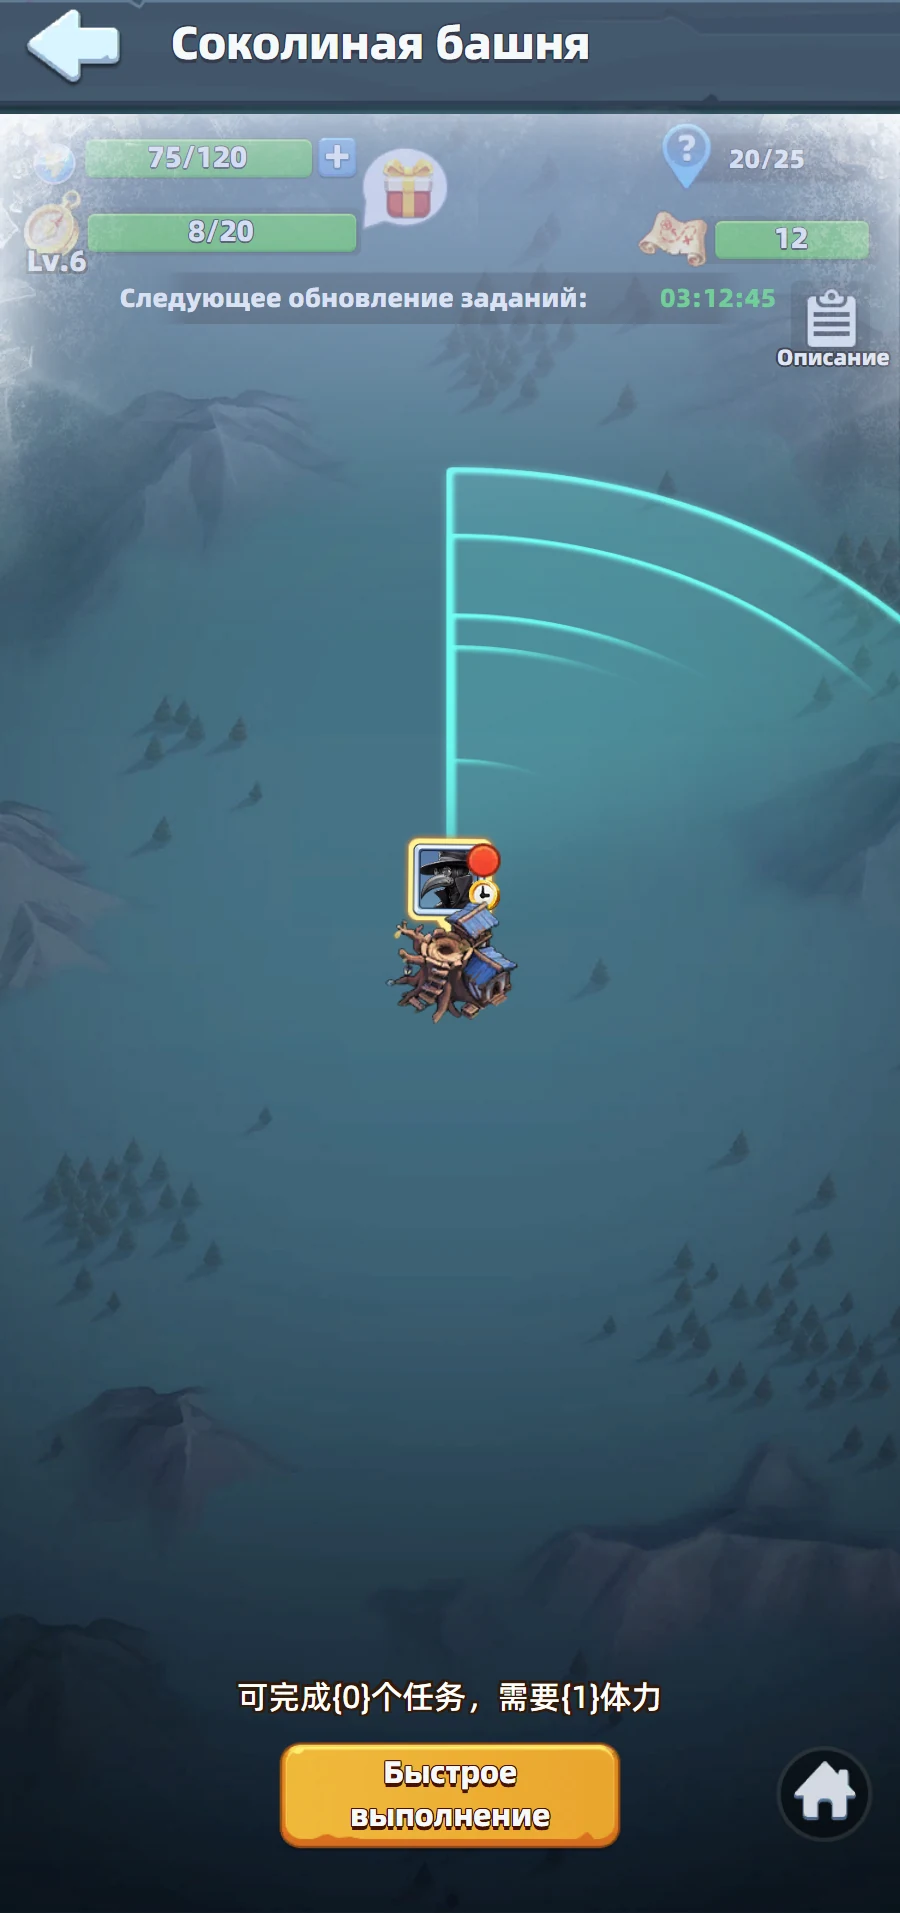
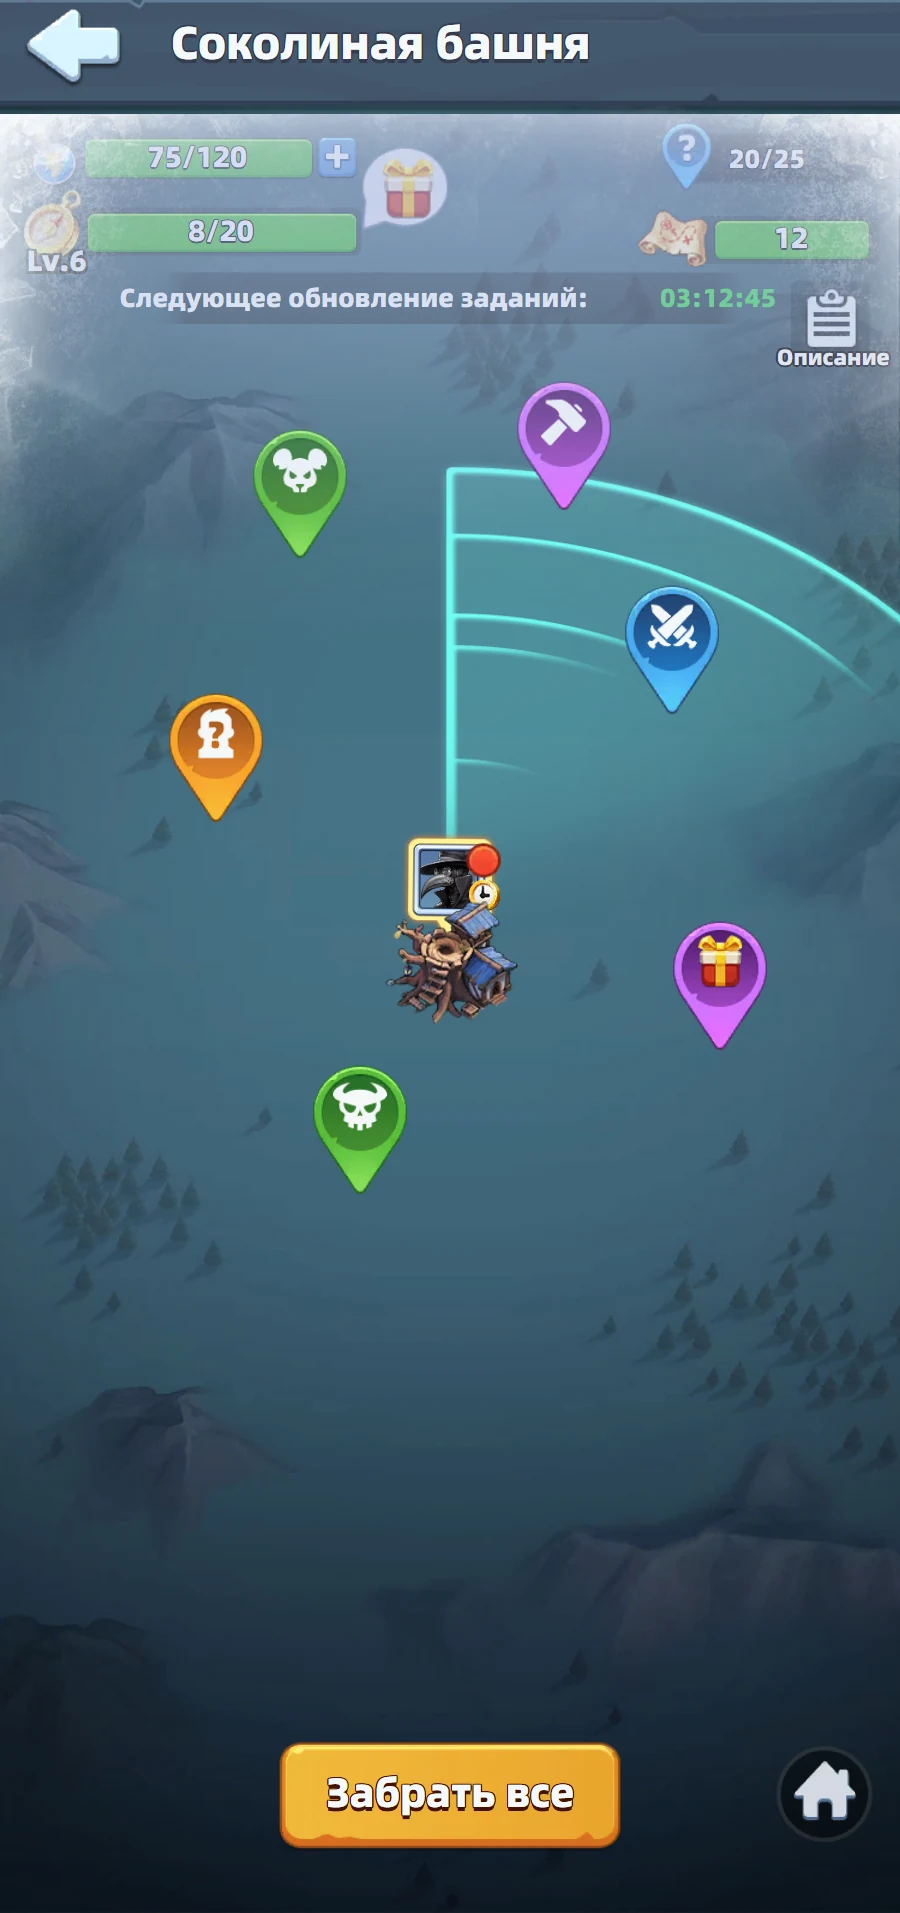
Дуэль: Соколиная башня с метками заданий, молоток на подложке pic_gjs_qipao

diff --git a/duel.html b/duel.html
@@ -168,10 +168,10 @@
 <section class="band pad" id="save">
   <div class="eyebrow">Главное умение</div>
   <h2>Как копить: два приёма, которые выигрывают Дуэль</h2>
-  <div class="steps c2 vshot">
-    <div class="step"><div class="shotwrap"><div class="shot"><img src="assets/shots/falcon-top.webp" alt="Соколиная башня: слева уровень сокола, справа «сколько ждёт / сколько можно»" loading="lazy"><span class="ring rect" style="left:6.2%;top:47.4%;width:8%;aspect-ratio:2"></span><span class="ring rect" style="left:85.3%;top:28.7%;width:10%;aspect-ratio:2.8"></span></div></div>
-      <div class="body"><h3>«Сохранять» задания сокола — что это и как</h3>
-      <p><b>Задания сокола</b> — короткие задания на карте из Башни сокола (птица слева внизу на главном экране): убить скверну, помочь союзнику, собрать ресурсы.</p>
+  <div class="grid2">
+    <figure class="side-shot"><div class="shot"><img src="assets/shots/falcon.webp" alt="Соколиная башня: метки заданий на карте, уровень сокола, «сколько ждёт / сколько можно», «Забрать все»" loading="lazy"><span class="ring rect" style="left:5.9%;top:12%;width:9.6%;aspect-ratio:.88"></span><span class="ring rect" style="left:83.5%;top:7.7%;width:14.4%;aspect-ratio:2.1"></span><span class="ring rect" style="left:50%;top:93.9%;width:38.1%;aspect-ratio:3.11"></span></div><p class="cap">Соколиная башня: цветные метки — задания сокола.</p></figure>
+    <div class="card"><h3>«Сохранять» задания сокола — что это и как</h3>
+      <p><b>Задания сокола</b> — короткие задания из Соколиной башни: на её карте они висят цветными метками (череп — бить скверну, рука — помочь союзнику, подарок — забрать награду и т. д.). Выполнил — метка ждёт, пока не нажмёшь «Забрать все».</p>
       <p><b>«Сохранить» значит: выполнить задание, но НЕ нажимать «Забрать».</b> Выполненное задание висит в башне «в ожидании». Ты забираешь его в нужный день — и только тогда игра даёт очки Дуэли.</p>
       <ol>
         <li>В <b>воскресенье, вторник и четверг</b> выполняешь задания сокола и не забираешь награду.</li>
@@ -179,10 +179,11 @@
         <li>В субботу выполняешь и забираешь сразу.</li>
       </ol>
       <div class="word"><b>Сколько можно накопить.</b> Новые задания появляются каждые 6 часов, но «в ожидании» может висеть ограниченное число — это уровень твоего сокола. Справа вверху у знака вопроса видно «сколько ждёт / сколько можно». Слева вверху — компас с цифрой, это уровень сокола. Нажми на компас, чтобы увидеть, сколько заданий осталось до следующего уровня.</div>
-      <p class="cap">Если лимит забит, новые задания не появятся — лишние лучше забрать, чтобы не пропадали.</p>
-      </div></div>
-    <div class="step"><div class="shotwrap"><div class="shot"><img src="assets/shots/hammer.webp" alt="Здание с молотком над крышей — стройка закончена, но не засчитана" loading="lazy"><span class="ring rect" style="left:50%;top:16.5%;width:28%;aspect-ratio:.88"></span></div></div>
-      <div class="body"><h3>«Держать молоток» — что это и как</h3>
+      <p class="cap">Если лимит забит, новые задания не появятся — лишние лучше забрать, чтобы не пропадали.</p></div>
+  </div>
+  <div class="grid2">
+    <figure class="side-shot"><div class="shot"><img src="assets/shots/hammer.webp" alt="Здание с молотком над крышей — стройка закончена, но не засчитана" loading="lazy"><span class="ring rect" style="left:50%;top:13.9%;width:25.5%;aspect-ratio:.93"></span></div><p class="cap">Молоток над зданием — стройка готова, но не засчитана.</p></figure>
+    <div class="card"><h3>«Держать молоток» — что это и как</h3>
       <p>Когда стройка заканчивается, над зданием появляется <b>молоток</b>. Пока ты его не нажал, улучшение не засчитано.</p>
       <p><b>Очки Дуэли дают за нажатие на молоток, а не за конец стройки.</b> Поэтому:</p>
       <ol>
@@ -190,8 +191,7 @@
         <li>Стройка закончилась — <b>не нажимай молоток</b>. Очередь стройки при этом освобождается, можно строить дальше.</li>
         <li>Во вторник (день стройки) нажми все молотки — получишь очки за всё сразу.</li>
       </ol>
-      <p>С исследованиями то же самое: готовое исследование забирай в среду или пятницу.</p>
-      </div></div>
+      <p>С исследованиями то же самое: готовое исследование забирай в среду или пятницу.</p></div>
   </div>
   <h3>Что копить всю неделю и когда тратить</h3>
   <div class="items">

diff --git a/src/duel.html b/src/duel.html
@@ -133,10 +133,10 @@
 <section class="band pad" id="save">
   <div class="eyebrow">Главное умение</div>
   <h2>Как копить: два приёма, которые выигрывают Дуэль</h2>
-  <div class="steps c2 vshot">
-    <div class="step"><div class="shotwrap"><div class="shot"><img src="assets/shots/falcon-top.webp" alt="Соколиная башня: слева уровень сокола, справа «сколько ждёт / сколько можно»" loading="lazy"><span class="ring rect" style="left:6.2%;top:47.4%;width:8%;aspect-ratio:2"></span><span class="ring rect" style="left:85.3%;top:28.7%;width:10%;aspect-ratio:2.8"></span></div></div>
-      <div class="body"><h3>«Сохранять» задания сокола — что это и как</h3>
-      <p><b>Задания сокола</b> — короткие задания на карте из Башни сокола (птица слева внизу на главном экране): убить скверну, помочь союзнику, собрать ресурсы.</p>
+  <div class="grid2">
+    <figure class="side-shot"><div class="shot"><img src="assets/shots/falcon.webp" alt="Соколиная башня: метки заданий на карте, уровень сокола, «сколько ждёт / сколько можно», «Забрать все»" loading="lazy"><span class="ring rect" style="left:5.9%;top:12%;width:9.6%;aspect-ratio:.88"></span><span class="ring rect" style="left:83.5%;top:7.7%;width:14.4%;aspect-ratio:2.1"></span><span class="ring rect" style="left:50%;top:93.9%;width:38.1%;aspect-ratio:3.11"></span></div><p class="cap">Соколиная башня: цветные метки — задания сокола.</p></figure>
+    <div class="card"><h3>«Сохранять» задания сокола — что это и как</h3>
+      <p><b>Задания сокола</b> — короткие задания из Соколиной башни: на её карте они висят цветными метками (череп — бить скверну, рука — помочь союзнику, подарок — забрать награду и т. д.). Выполнил — метка ждёт, пока не нажмёшь «Забрать все».</p>
       <p><b>«Сохранить» значит: выполнить задание, но НЕ нажимать «Забрать».</b> Выполненное задание висит в башне «в ожидании». Ты забираешь его в нужный день — и только тогда игра даёт очки Дуэли.</p>
       <ol>
         <li>В <b>воскресенье, вторник и четверг</b> выполняешь задания сокола и не забираешь награду.</li>
@@ -144,10 +144,11 @@
         <li>В субботу выполняешь и забираешь сразу.</li>
       </ol>
       <div class="word"><b>Сколько можно накопить.</b> Новые задания появляются каждые 6 часов, но «в ожидании» может висеть ограниченное число — это уровень твоего сокола. Справа вверху у знака вопроса видно «сколько ждёт / сколько можно». Слева вверху — компас с цифрой, это уровень сокола. Нажми на компас, чтобы увидеть, сколько заданий осталось до следующего уровня.</div>
-      <p class="cap">Если лимит забит, новые задания не появятся — лишние лучше забрать, чтобы не пропадали.</p>
-      </div></div>
-    <div class="step"><div class="shotwrap"><div class="shot"><img src="assets/shots/hammer.webp" alt="Здание с молотком над крышей — стройка закончена, но не засчитана" loading="lazy"><span class="ring rect" style="left:50%;top:16.5%;width:28%;aspect-ratio:.88"></span></div></div>
-      <div class="body"><h3>«Держать молоток» — что это и как</h3>
+      <p class="cap">Если лимит забит, новые задания не появятся — лишние лучше забрать, чтобы не пропадали.</p></div>
+  </div>
+  <div class="grid2">
+    <figure class="side-shot"><div class="shot"><img src="assets/shots/hammer.webp" alt="Здание с молотком над крышей — стройка закончена, но не засчитана" loading="lazy"><span class="ring rect" style="left:50%;top:13.9%;width:25.5%;aspect-ratio:.93"></span></div><p class="cap">Молоток над зданием — стройка готова, но не засчитана.</p></figure>
+    <div class="card"><h3>«Держать молоток» — что это и как</h3>
       <p>Когда стройка заканчивается, над зданием появляется <b>молоток</b>. Пока ты его не нажал, улучшение не засчитано.</p>
       <p><b>Очки Дуэли дают за нажатие на молоток, а не за конец стройки.</b> Поэтому:</p>
       <ol>
@@ -155,8 +156,7 @@
         <li>Стройка закончилась — <b>не нажимай молоток</b>. Очередь стройки при этом освобождается, можно строить дальше.</li>
         <li>Во вторник (день стройки) нажми все молотки — получишь очки за всё сразу.</li>
       </ol>
-      <p>С исследованиями то же самое: готовое исследование забирай в среду или пятницу.</p>
-      </div></div>
+      <p>С исследованиями то же самое: готовое исследование забирай в среду или пятницу.</p></div>
   </div>
   <h3>Что копить всю неделю и когда тратить</h3>
   <div class="items">
